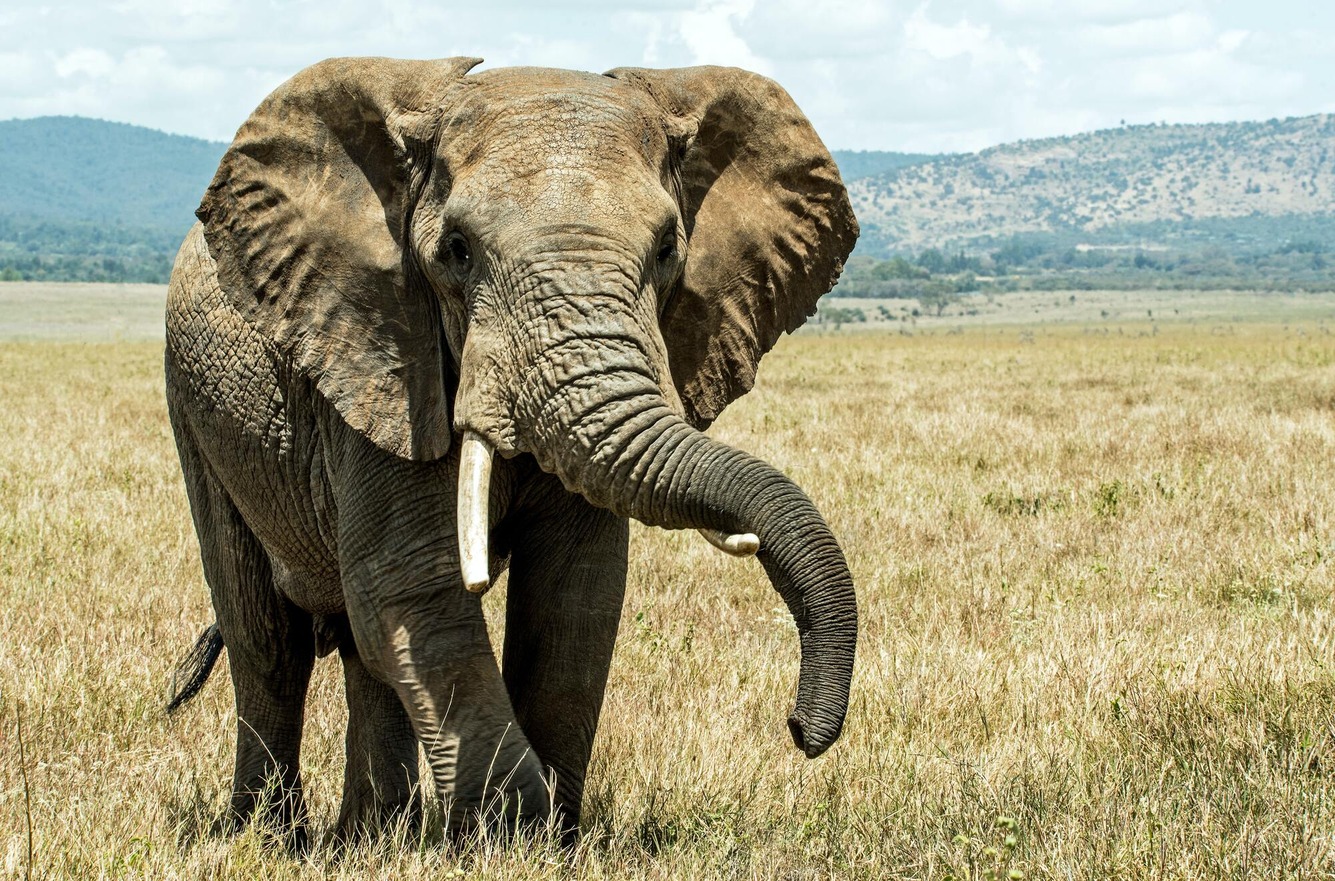
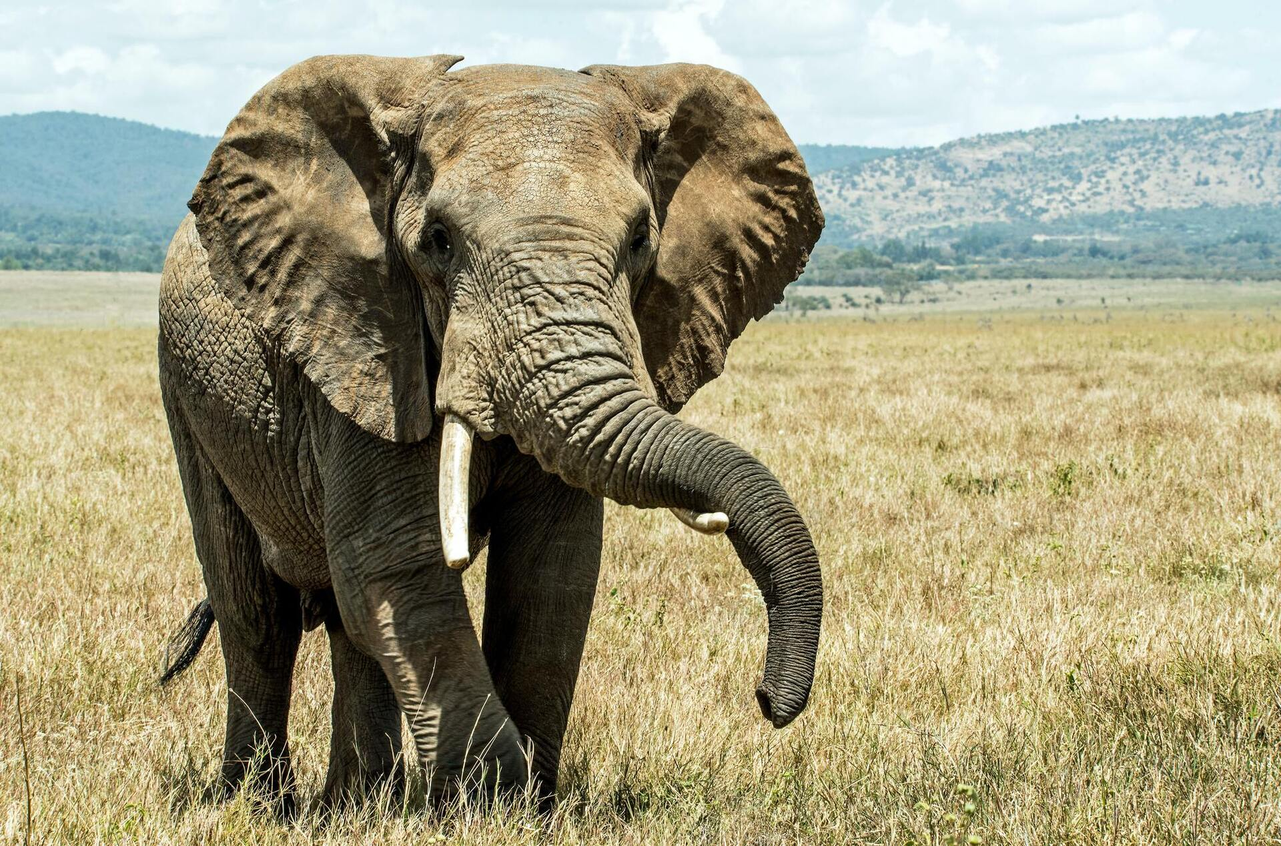
feat: Redimensionnement de main_HOME.jpg (1920px) et mise à jour des dimensions pour score Performance maximal

diff --git a/index.html b/index.html
@@ -17,7 +17,7 @@
 <body>
 
 <div class="w3-display-container" style="margin-bottom:50px">
-  <img src="img/main_HOME.jpg" style="width:100%" width="5953" height="3932" alt="Un éléphants marchant côte à côte dans la savane">
+  <img src="img/main_HOME.jpg" style="width:100%" width="1920" height="1268" alt="Un éléphants marchant côte à côte dans la savane">
   <div class="w3-display-bottomleft w3-container w3-amber w3-hover-orange w3-hide-small"
    style="bottom:10%;opacity:0.7;width:70%">
   <h2><b>Travel Agency (Demo Website)</b></h2>
